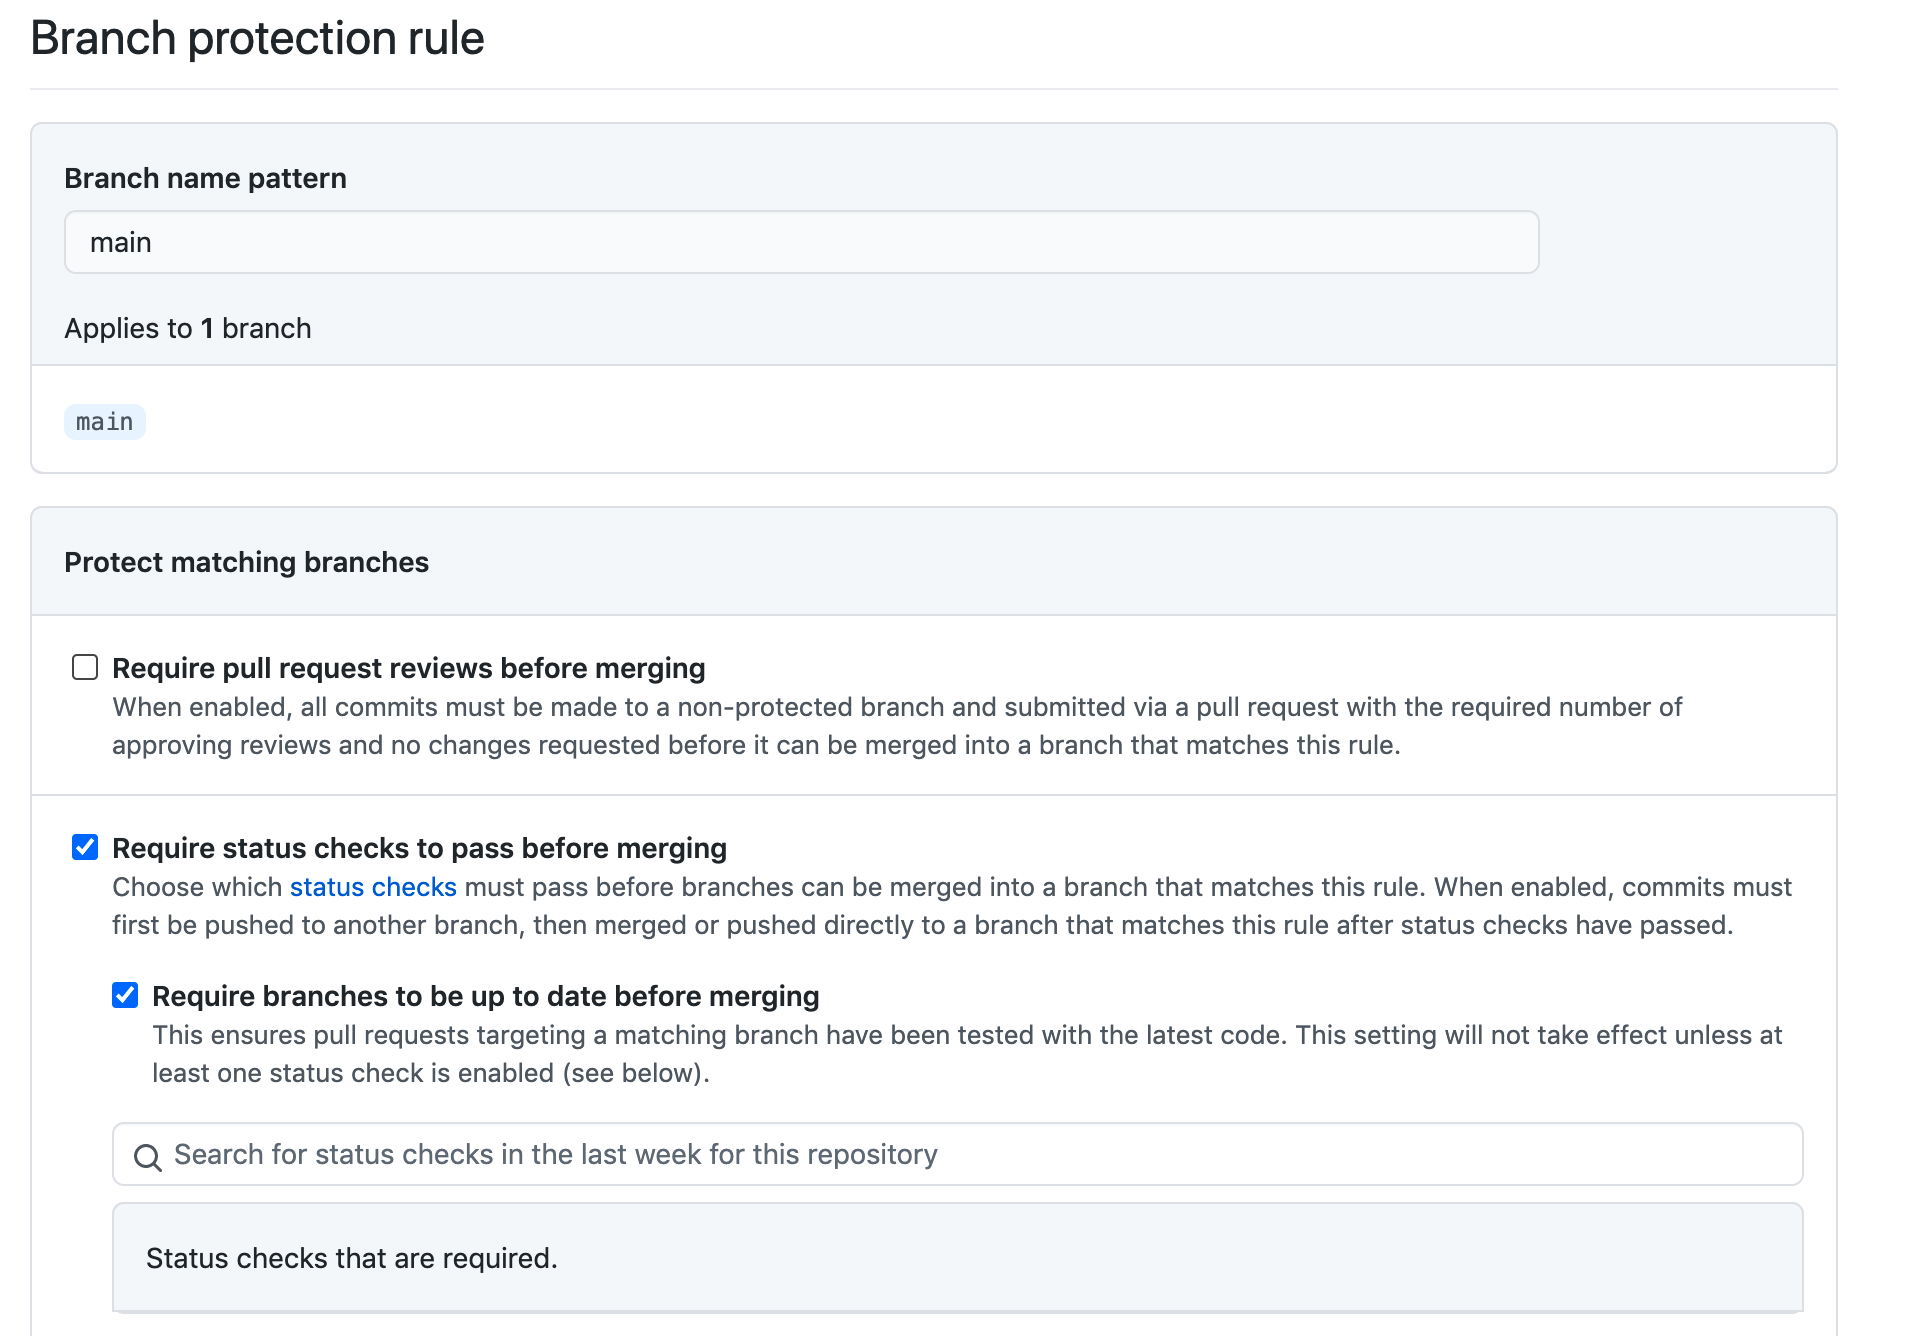
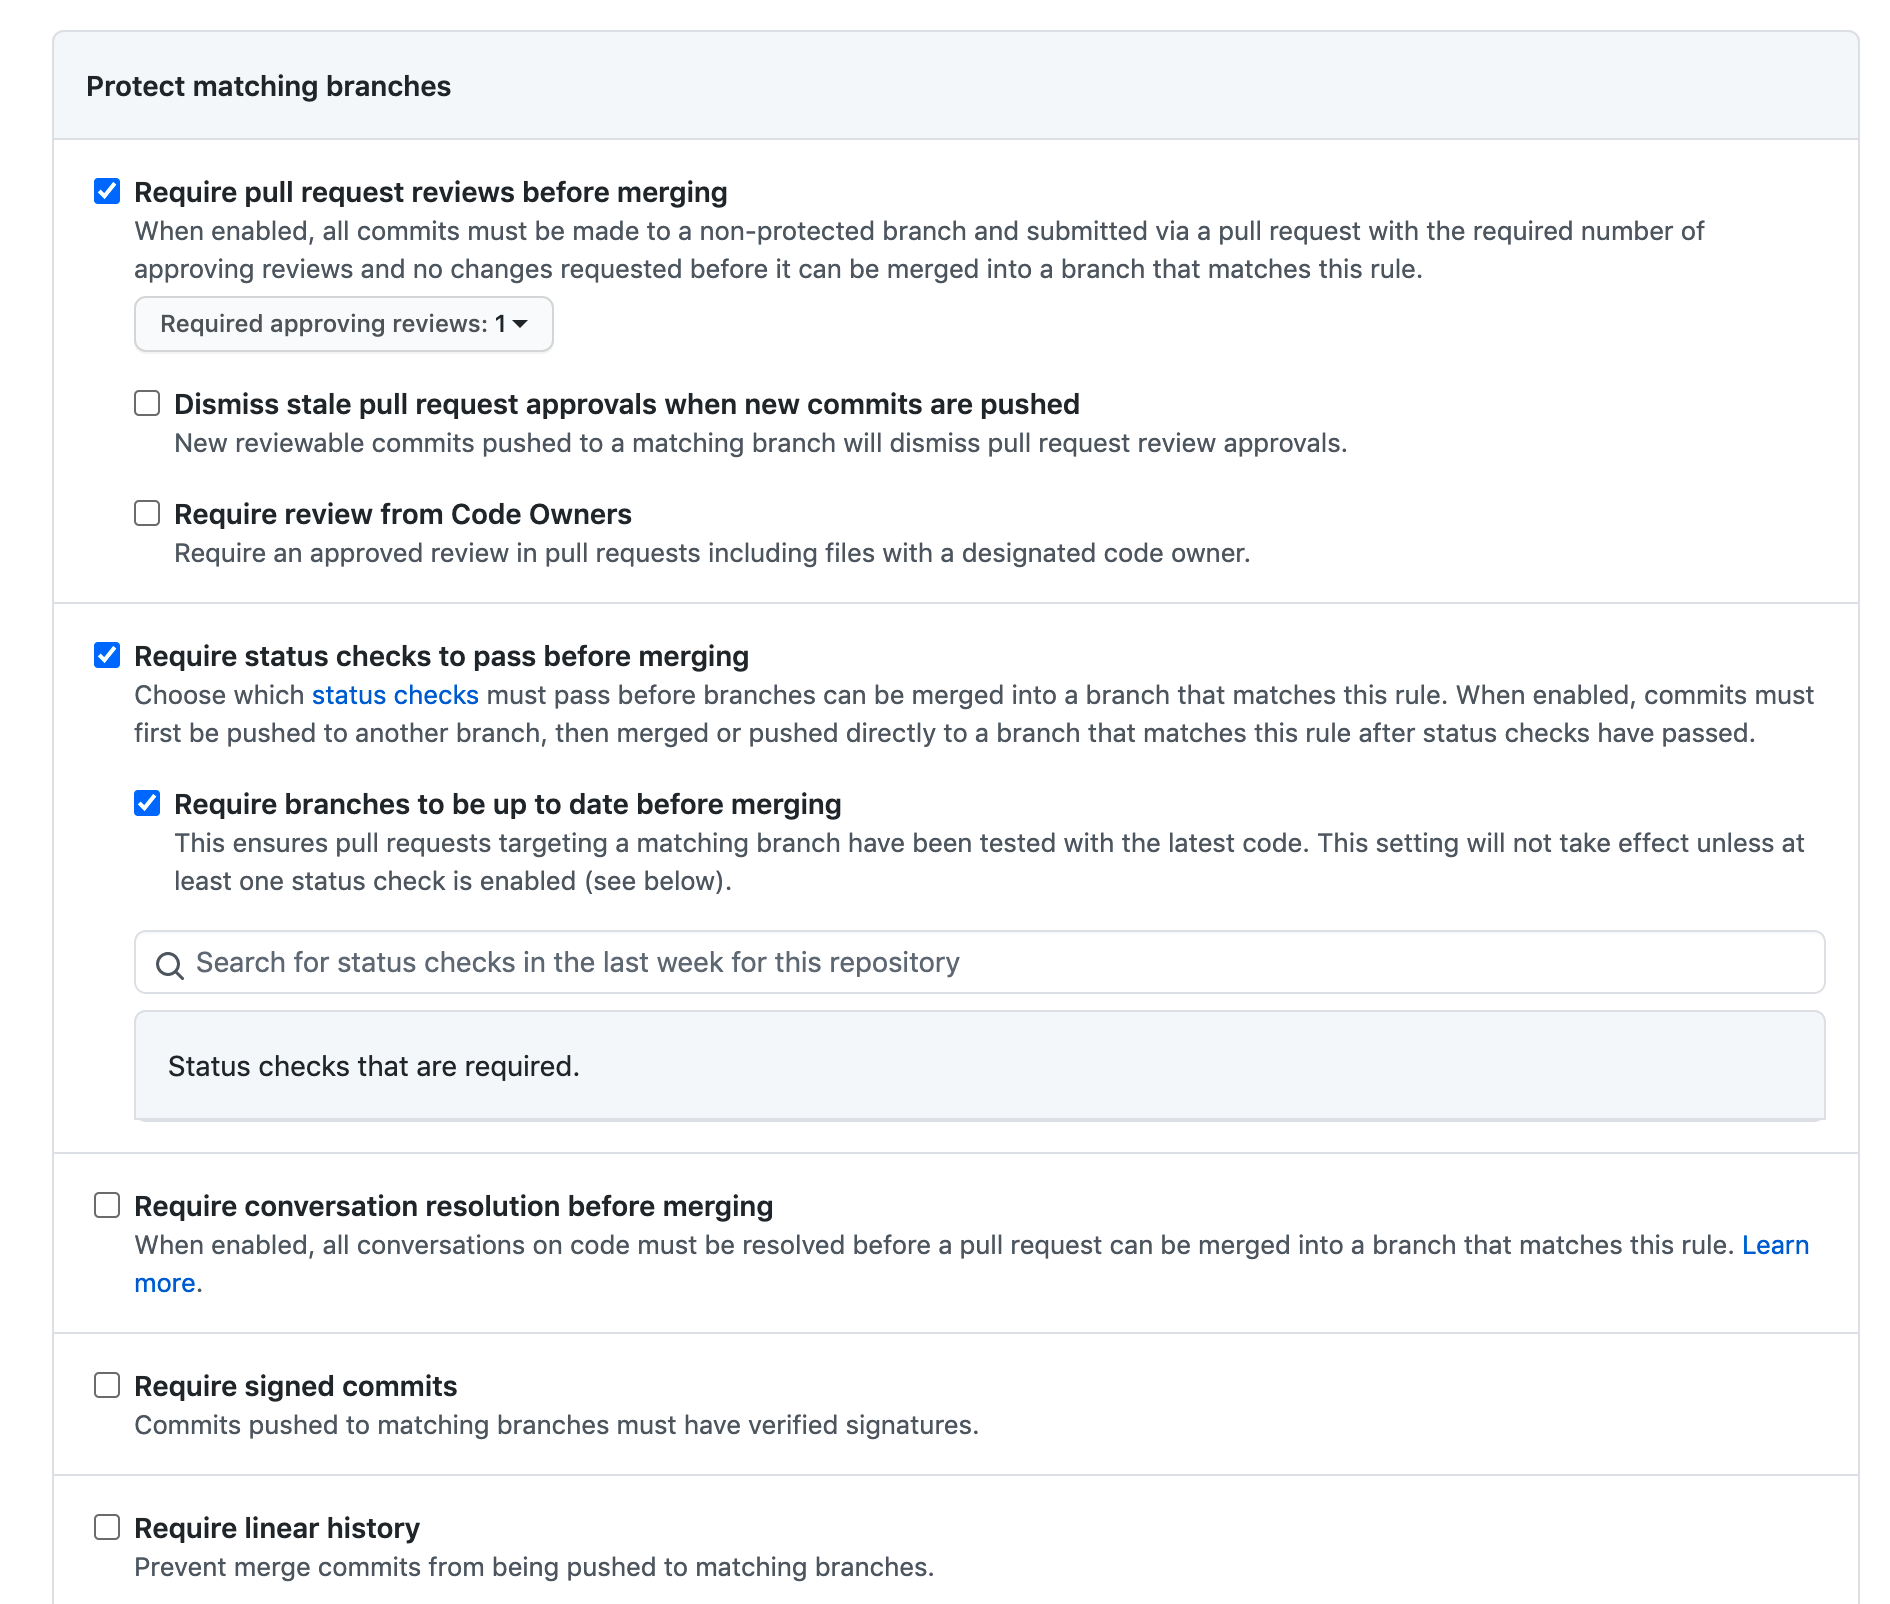
update readme

diff --git a/docs/demo-day2/README.md b/docs/demo-day2/README.md
@@ -1,18 +1,24 @@
 # DAY 2
+---
 ## Create Jenkins Job to deploy application
 
-### Create NodeJS global tools
-Manage Jenkins -> Global Tools Configuration -> Nodejs -> NodeJS installations
+- #### Create NodeJS global tools
+`Open Jenkins -> Manage Jenkins -> Global Tools Configuration -> Nodejs -> NodeJS installations`
+
 ![Image of Nodejs tools](https://github.com/sidiqputra/technoscape-demo/blob/main/docs/images/nodejs-tools.png?raw=true)
 
-### Create credential
-Manage Jenkins -> Manage Credential -> (global) -> Add credentials
+- #### Create credential
+`Manage Jenkins -> Manage Credential -> (global) -> Add credentials`
+
 ![Image of Jenkins Credential](https://github.com/sidiqputra/technoscape-demo/blob/main/docs/images/jenkins-credential.png?raw=true)
-### Create New Job
-Dashboard -> New Item
+
+- #### Create New Job
+`Dashboard -> New Item`
+
 ![Image of New Job](https://github.com/sidiqputra/technoscape-demo/blob/main/docs/images/new-job.png?raw=true)
 
-### Add Pipeline
+
+- #### Add Pipeline
 ```
 pipeline {
     agent any 
@@ -39,22 +45,26 @@ pipeline {
     }
 }
 ```
-### Deploy the code
-open the job -> build now
+- #### Deploy the code
+
+`open the job -> build now`
+
+- #### Automate deploy with poll scm
+
 ## Create unit test
-### Install mocha, chai, chai-http
+- #### Install mocha, chai, chai-http
 ```
 $ npm install --save mocha chai chai-http
 ```
 
-### Edit file package.json 
+- #### Edit file package.json 
 ```
 "test": "mocha",
 ```
 
-### Create folder `test`
+- #### Create folder `test`
 
-### Create file server.js inside `test` folder
+- #### Create file server.js inside `test` folder
 ```
 let chai = require("chai");
 let chaiHttp = require("chai-http");
@@ -91,7 +101,8 @@ describe('Test GET Product', () => {
 
 });
 ```
-### Adjust index.js to export module
+
+- #### Adjust index.js to export module
 ```
 const server = app.listen(PORT, () => {
  console.log("Server running on port " + PORT);
@@ -99,44 +110,78 @@ const server = app.listen(PORT, () => {
 
 module.exports = server;
 ```
-### Run unit test
+- #### Run unit test
 ```
 $ npm run test
 ```
 ## Create Jenkins Multibranch
-### Create credential github-token
-Manage Jenkins -> Manage Credential -> (global) -> Add credentials
+- #### Create credential github-token
+`Manage Jenkins -> Manage Credential -> (global) -> Add credentials`
+
 ![Image of Credential Github](https://github.com/sidiqputra/technoscape-demo/blob/main/docs/images/credential-github.png?raw=true)
 
-### Create New Job
-New Item -> Multibranch Pipeline
+- #### Create New Job
+`New Item -> Multibranch Pipeline`
 
-### Setup the job multibranch job 
+- #### Setup the multibranch job 
+
 ![Image of New Multibranch](https://github.com/sidiqputra/technoscape-demo/blob/main/docs/images/multibranch-settings.png?raw=true)
 
 
 ## Integrate Github PR with Jenkins
-### Open github repository
-Settings -> Branches -> Add rule
+- #### Open github repository
+`Settings -> Branches -> Add rule`
+
 ![Image of github protection rules](https://github.com/sidiqputra/technoscape-demo/blob/main/docs/images/github-protection-rules.png?raw=true)
 
-## Create Jenkins webhook smee channel
-### Open https://smee.io/ -> Start a new channel
-### Create github webhook
-Settings -> Webhooks -> Add webhook
+- #### create smee channel
+`Open` [smee.io](https://smee.io "smee.io") -> `Start a new channel`
+
+- #### Create github webhook
+`Open github.com -> Settings -> Webhooks -> Add webhook`
+
+
 ![Image of github webhook](https://github.com/sidiqputra/technoscape-demo/blob/main/docs/images/github-webhook.png?raw=true)
 
-### Install smee-client
+- #### Install smee-client
 ```
 $ npm install --global smee-client
 ```
 
-### Listen smee client
+- #### Listen smee client
 ```
 $ smee --url https://smee.io/<your channel> --target http://localhost:8080/github-webhook/
 ```
-
-# BONUS
-## Automate Job Creation (Job Seeder)
-
-- https://github.com/iqraabdulrauf/api-testing-with-mocha-chai/blob/master/index.js
+- #### Open text editor and create new branch
+```
+$ git checkout -b feature/automation-test
+```
+- #### Create Jenkinsfile
+```
+pipeline {
+    agent any
+    stages {
+        stage ('Checkout') {
+            steps {
+                checkout scm 
+            }
+        }
+        stage('Test') {
+            steps {
+                nodejs(nodeJSInstallationName: 'node14') {
+                    sh 'npm install'
+                    sh 'npm run test'
+                }
+            }
+        }
+    }
+}
+```
+- #### Commit changes to branch
+```
+$ git add -A
+$ git commit -m 'add Jenkinsfile'
+$ git push origin feature/automation-test
+```
+- #### Create New PR in github
+`in this stage new PR will run unit test before we can merging the code`

diff --git a/docs/demo-day1/README.md b/docs/demo-day1/README.md
@@ -1,4 +1,5 @@
 # DAY 1
+---
 
 ## Prerequisite(s)
 
@@ -11,31 +12,32 @@ Please install the following application in your local device :
 
 ## CREATE GITHUB PROJECT
 
-### Sign up
+- #### Sign up
   - open https://github.com/join
   - fill up the registration form
   - verify your email address
 
-### Create new repositories
-  - open repositories -> new
+- #### Create new repositories
+`open repositories -> new`
 
-### Open terminal and clone repository
+- #### Open terminal and clone repository
 ```
 $ git clone https://github.com/<user>/<repo-name>.git
 ```
 
 ## CREATE SIMPLE NODEJS APPLICATION
 
-### Bootstrap new nodejs project
+- #### Bootstrap new nodejs project
 ```
 $ cd <repo-name>
 $ npm init
 ```
-### Install express
+- #### Install express
 ```
 $ npm install express --save
 ```
-### Create file index.js
+
+- #### Create file index.js
 ```
 var express = require("express");
 var app = express();
@@ -48,7 +50,8 @@ app.listen(5000, () => {
  console.log("Server running on port 5000");
 });
 ```
-### Add startup script
+
+- #### Add startup script
 edit package.json
 ```
   "scripts": {
@@ -56,13 +59,13 @@ edit package.json
     "test": "echo \"Error: no test specified\" && exit 1"
   },
 ```
-### Start application
+- #### Start application
 ```
 $ npm start
 ```
-### Open browser http://localhost:5000
+- #### Open browser http://localhost:5000
 
-### Create file product.json
+- #### Create file product.json
 ```
 [
     {
@@ -79,7 +82,7 @@ $ npm start
     }
 ]
 ```
-### Create new function in index.js
+- #### Create new function in index.js
 ```
 var Products = require("./product.json");
 
@@ -88,7 +91,7 @@ app.get("/product/listall", (req, res) => {
     res.json(Products);
 });
 ```
-### Add another function in index.js
+- #### Add another function in index.js
 ```
 //GET detail by id
 app.get("/product/:id", (req, res) => {
@@ -97,13 +100,14 @@ app.get("/product/:id", (req, res) => {
     }))  
 });
 ```
-### Create new github token
-  - open profile -> settings -> developer settings -> personal access token
-### Authenticated to github
+- #### Create new github token
+`open profile -> settings -> developer settings -> personal access token`
+
+- #### Authenticated to github
 ```
 $ git remote set-url origin https://<user>:<token>@github.com/<user>/<reponame>.git
 ```
-### Push changes to repository
+- #### Push changes to repository
 ```
 $ git add -A
 $ git commit -am 'initial commit'
@@ -111,33 +115,40 @@ $ git push origin main
 ```
 
 ## Create Heroku application
-### Sign up
-- Open https://signup.heroku.com/
-- fill up form
-### Create new app
-- Open https://dashboard.heroku.com/apps
-- create new app (unique application name)
-### Install Heroku CLI https://devcenter.heroku.com/articles/heroku-cli
-### login heroku cli
+
+- #### Sign up
+open https://signup.heroku.com/
+fill up the form
+
+- #### Create new app
+open https://dashboard.heroku.com/apps
+create new app (unique application name)
+
+- #### Install Heroku CLI 
+open https://devcenter.heroku.com/articles/heroku-cli
+
+- #### login heroku cli
 ```
 $ heroku login
 ```
-### Add heroku git remote
+- #### Add heroku git remote
 ```
 $ heroku git:remote -a <app-name>
 ```
-### Deploy app to Heroku
+- #### Deploy app to Heroku
 ```
 $ git push heroku main
 ```
-### Open your heroku application in browser https://appname.herokuapp.com/
-##### *) in this stage you will getting error in heroku app
+- #### Open your heroku application in browser 
+https://yourappname.herokuapp.com
 
-### Add this line
+`*) in this stage you will getting error in heroku app`
+
+- #### Add this line in index.js
 ```
 var PORT = process.env.PORT || 5000;
 ```
-### Change below line
+- #### Change below line in index.js
 ```
 app.listen(5000, () => {
  console.log("Server running on port 5000");
@@ -149,25 +160,26 @@ app.listen(PORT, () => {
  console.log("Server running on port " + PORT);
 });
 ```
-### Create file Procfile
+- #### Create file Procfile
 ```
 web: node index.js
 ```
-### Deploy app to Heroku
+- #### Deploy app to Heroku
 ```
 $ git add .
 $ git commit -m 'add Procfile'
 $ git push origin main
 $ git push heroku main
 ```
-### Re-open the app https://appname.herokuapp.com/
+- #### Re-open the app 
+https://yourappname.herokuapp.com
 
 ## Setup Jenkins
-### Clone repository
+- #### Clone repository
 ```
 $ git clone https://github.com/sidiqputra/jenkins-docker.git
 ```
-### Start Jenkins
+- #### Start Jenkins
 ```
 $ cd jenkins-docker
 $ docker-compose up -d
